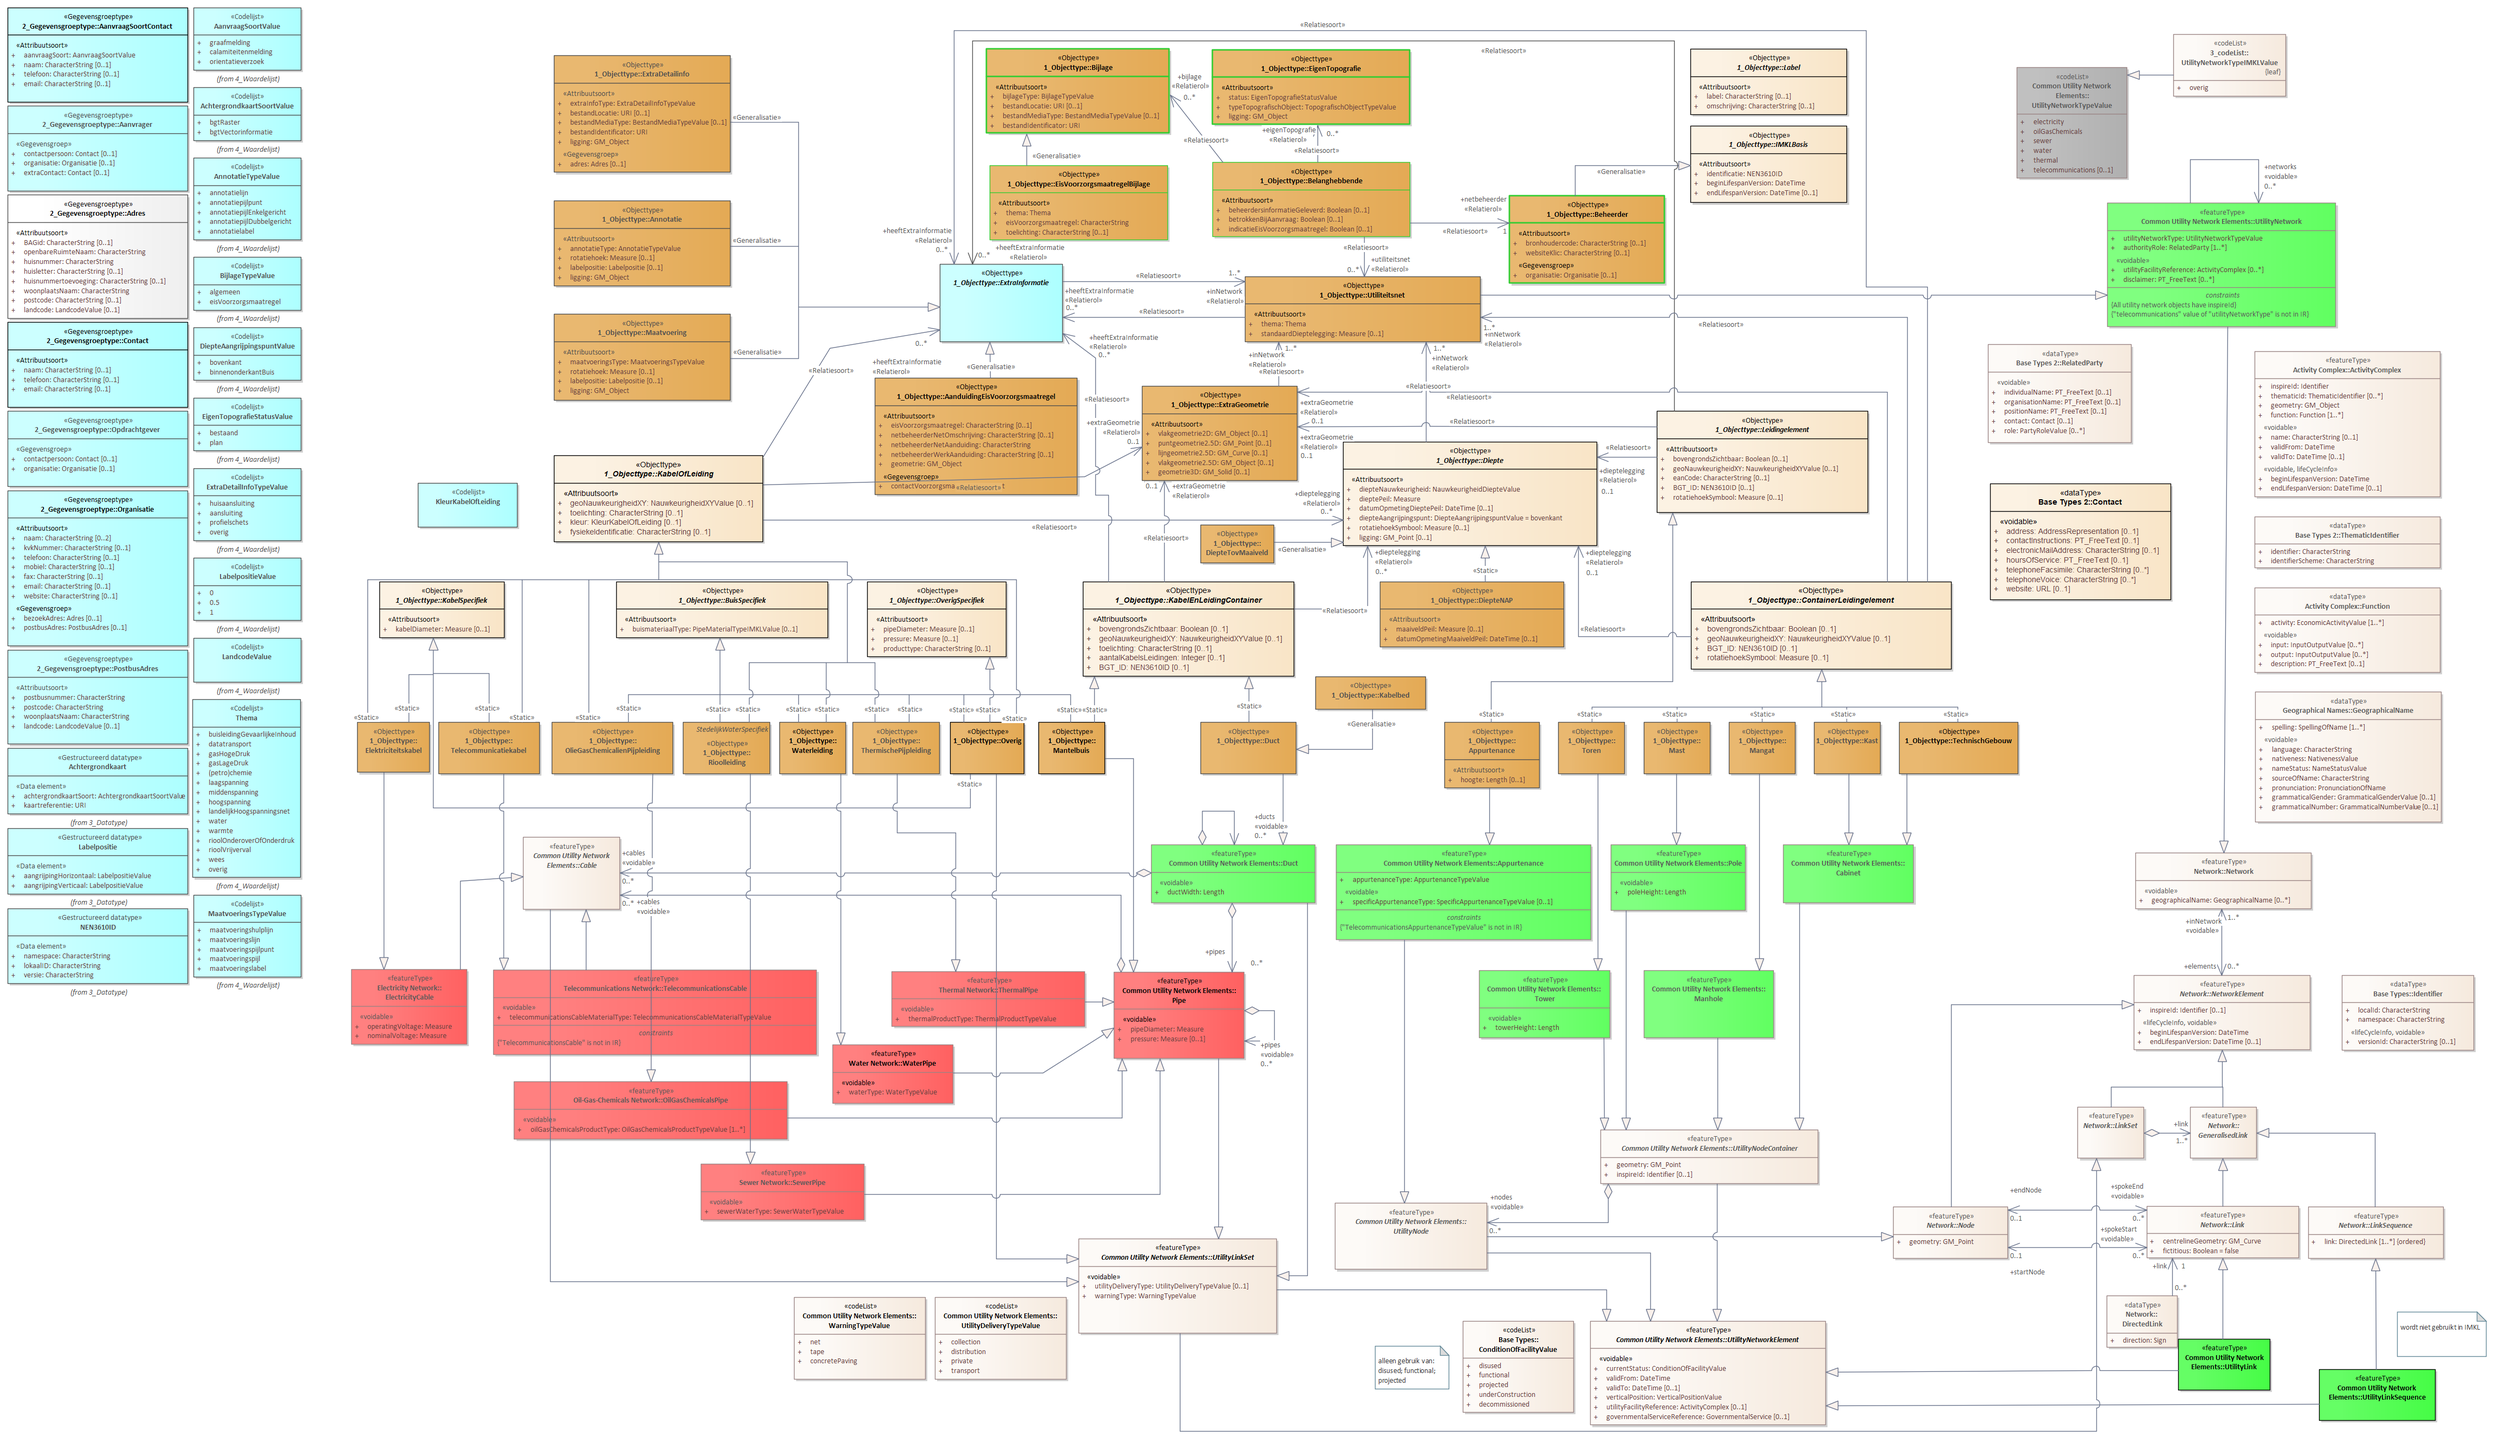
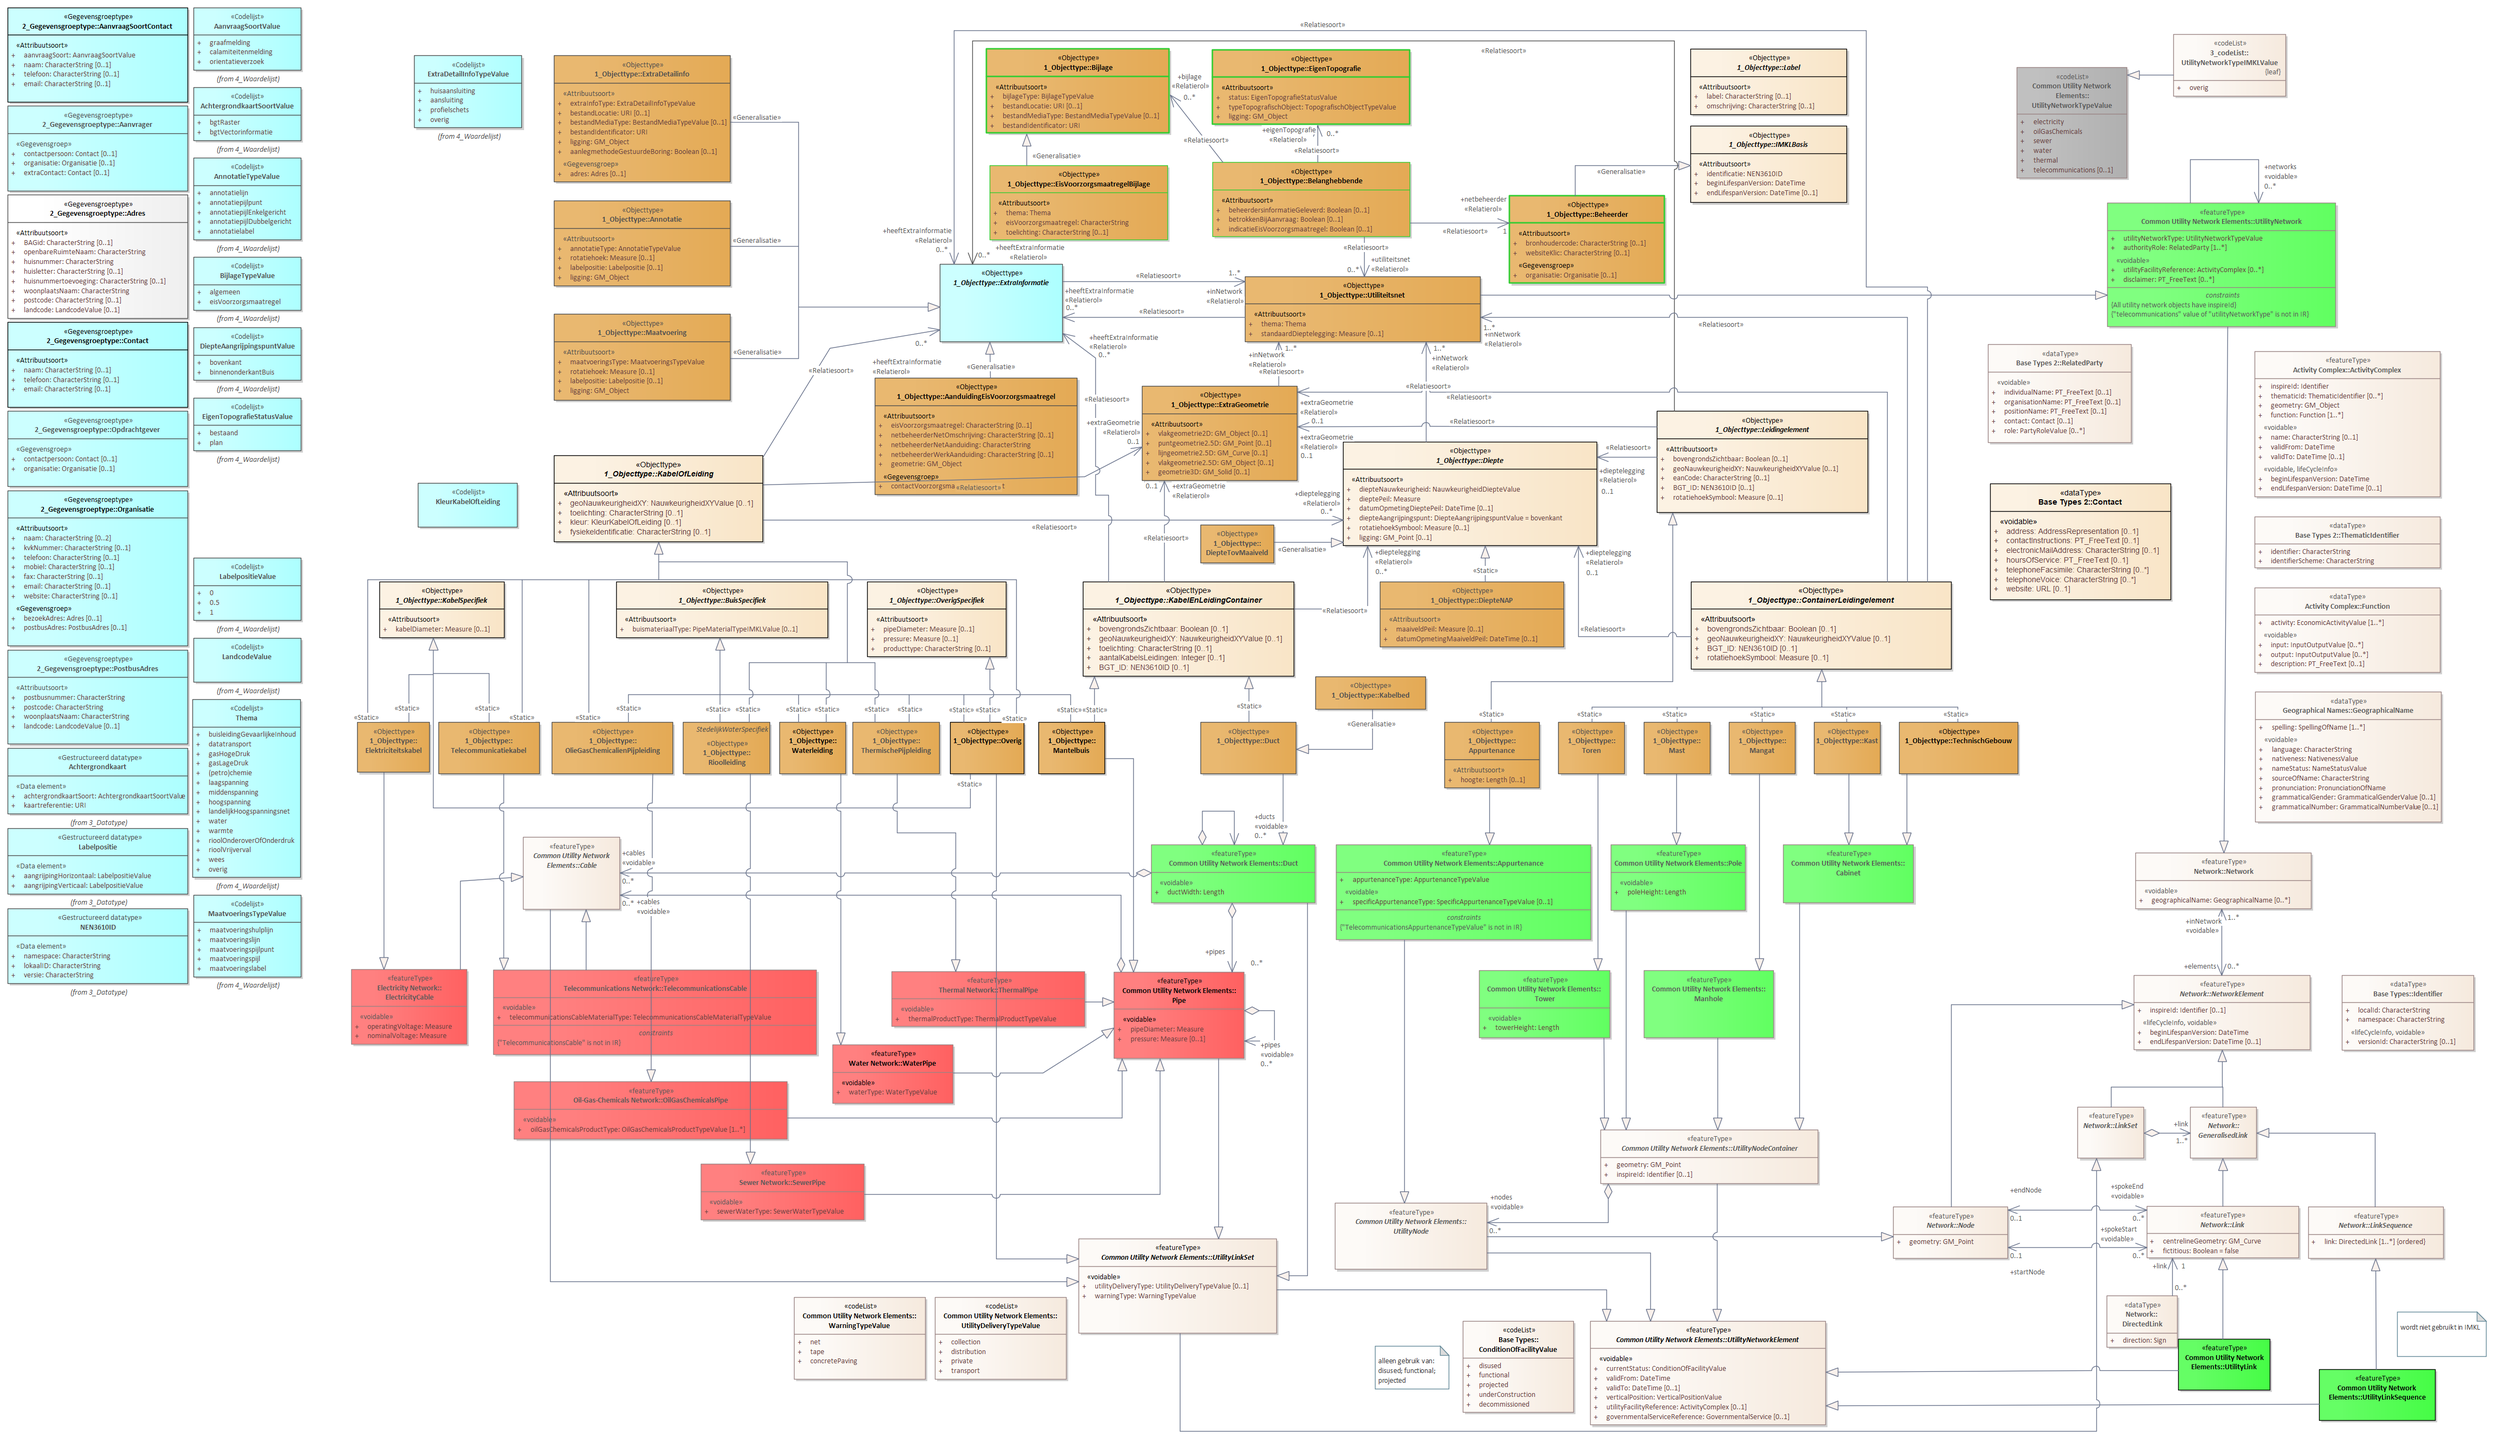
MIMLM-InformatiemodelKabelsenLeidingenMIM-conversie-1.2.x-0-20240531-20240620-145740

Changed region(s): [[0.1561, 0.031, 0.2186, 0.0931], [0.0625, 0.3103, 0.1249, 0.3723], [0.2186, 0.0931, 0.2811, 0.1241]]

diff --git a/data/imkl-mim-cat.respec.html b/data/imkl-mim-cat.respec.html
@@ -1,7 +1,17 @@
 
 <!DOCTYPE HTML><section id="cat" class="normative">
    <h2>Gegevensdefinitie</h2>
-   <!--MIMLM-InformatiemodelKabelsenLeidingenMIM-conversie-1.2.x-0-20240531-20240612-134204 imvertor Nightly-build.14-->
+   <!--MIMLM-InformatiemodelKabelsenLeidingenMIM-conversie-1.2.x-0-20240531-20240620-145740 imvertor Nightly-build.14-->
+   <section id="EAID_3216E3F5_51CD_42d4_BDBB_F113D31E31A7">
+      <h3>   01 IMKL-MIM-compleet - overzicht</h3>
+      <div class="imageinfo overview">
+         <figure><img src="data/Images/EAID_3216E3F5_51CD_42d4_BDBB_F113D31E31A7.png" usemap="#imagemap-EAID_3216E3F5_51CD_42d4_BDBB_F113D31E31A7" alt="Diagram: 01 IMKL-MIM-compleet - overzicht"><figcaption>01 IMKL-MIM-compleet</figcaption>
+         </figure><map name="imagemap-EAID_3216E3F5_51CD_42d4_BDBB_F113D31E31A7"><area shape="rect" alt="" coords="771,891,955,973" href="#global_class_IMKLMIM_KleurKabelOfLeiding"><area shape="rect" alt="Achtergrondkaart" coords="14,1380,347,1502" href="#global_class_IMKLMIM_Achtergrondkaart"><area shape="rect" alt="PostbusAdres" coords="14,1199,347,1373" href="#global_class_IMKLMIM_PostbusAdres"><area shape="rect" alt="Organisatie" coords="14,905,347,1192" href="#global_class_IMKLMIM_Organisatie"><area shape="rect" alt="Opdrachtgever" coords="14,758,347,898" href="#global_class_IMKLMIM_Opdrachtgever"><area shape="rect" alt="Contact" coords="14,594,347,752" href="#global_class_IMKLMIM_Contact"><area shape="rect" alt="Aanvrager" coords="14,195,347,353" href="#global_class_IMKLMIM_Aanvrager"><area shape="rect" alt="AanvraagSoortContact" coords="14,14,347,189" href="#global_class_IMKLMIM_AanvraagSoortContact"><area shape="rect" alt="Adres" coords="14,359,347,588" href="#global_class_IMKLMIM_Adres"><area shape="rect" alt="" coords="355,1290,555,1619" href="#global_class_IMKLMIM_Thema"><area shape="rect" alt="" coords="357,1651,556,1803" href="#global_class_IMKLMIM_MaatvoeringsTypeValue"><area shape="rect" alt="" coords="357,1177,556,1259" href="#global_class_IMKLMIM_LandcodeValue"><area shape="rect" alt="" coords="357,1029,556,1145" href="#global_class_IMKLMIM_LabelpositieValue"><area shape="rect" alt="" coords="764,102,963,236" href="#global_class_IMKLMIM_ExtraDetailInfoTypeValue"><area shape="rect" alt="" coords="357,734,556,832" href="#global_class_IMKLMIM_EigenTopografieStatusValue"><area shape="rect" alt="" coords="357,474,556,573" href="#global_class_IMKLMIM_BijlageTypeValue"><area shape="rect" alt="" coords="357,291,556,443" href="#global_class_IMKLMIM_AnnotatieTypeValue"><area shape="rect" alt="" coords="357,161,556,260" href="#global_class_IMKLMIM_AchtergrondkaartSoortValue"><area shape="rect" alt="" coords="357,14,556,130" href="#global_class_IMKLMIM_AanvraagSoortValue"><area shape="rect" alt="" coords="357,604,556,702" href="#global_class_IMKLMIM_DiepteAangrijpingspuntValue"><area shape="rect" alt="NEN3610ID" coords="14,1676,347,1815" href="#global_class_IMKLMIM_NEN3610ID"><area shape="rect" alt="Labelpositie" coords="14,1528,347,1650" href="#global_class_IMKLMIM_Labelpositie"><area shape="rect" alt="Beheerder" coords="2785,361,3072,523" href="#global_class_IMKLMIM_Beheerder"><area shape="rect" alt="Overig" coords="1753,1332,1890,1428" href="#global_class_IMKLMIM_Overig"><area shape="rect" alt="Belanghebbende" coords="2237,299,2602,437" href="#global_class_IMKLMIM_Belanghebbende"><area shape="rect" alt="TechnischGebouw" coords="3504,1332,3724,1428" href="#global_class_IMKLMIM_TechnischGebouw"><area shape="rect" alt="BuisSpecifiek" coords="1137,1073,1528,1177" href="#global_class_IMKLMIM_BuisSpecifiek"><area shape="rect" alt="EisVoorzorgsmaatregelBijlage" coords="1826,305,2155,443" href="#global_class_IMKLMIM_EisVoorzorgsmaatregelBijlage"><area shape="rect" alt="Bijlage" coords="1820,90,2158,246" href="#global_class_IMKLMIM_Bijlage"><area shape="rect" alt="ExtraInformatie" coords="1734,487,1961,631" href="#global_class_IMKLMIM_ExtraInformatie"><area shape="rect" alt="Leidingelement" coords="3057,758,3447,946" href="#global_class_IMKLMIM_Leidingelement"><area shape="rect" alt="KabelEnLeidingContainer" coords="1998,1073,2388,1248" href="#global_class_IMKLMIM_KabelEnLeidingContainer"><area shape="rect" alt="ExtraGeometrie" coords="2107,712,2394,887" href="#global_class_IMKLMIM_ExtraGeometrie"><area shape="rect" alt="Maatvoering" coords="1022,579,1348,739" href="#global_class_IMKLMIM_Maatvoering"><area shape="rect" alt="AanduidingEisVoorzorgsmaatregel" coords="1614,697,1988,913" href="#global_class_IMKLMIM_AanduidingEisVoorzorgsmaatregel"><area shape="rect" alt="Mantelbuis" coords="1916,1332,2039,1428" href="#global_class_IMKLMIM_Mantelbuis"><area shape="rect" alt="Kabelbed" coords="2427,1248,2631,1309" href="#global_class_IMKLMIM_Kabelbed"><area shape="rect" alt="KabelOfLeiding" coords="1022,840,1408,1000" href="#global_class_IMKLMIM_KabelOfLeiding"><area shape="rect" alt="Diepte" coords="2478,815,2947,1007" href="#global_class_IMKLMIM_Diepte"><area shape="rect" alt="Telecommunicatiekabel" coords="809,1332,996,1428" href="#global_class_IMKLMIM_Telecommunicatiekabel"><area shape="rect" alt="Elektriciteitskabel" coords="659,1332,793,1425" href="#global_class_IMKLMIM_Elektriciteitskabel"><area shape="rect" alt="KabelSpecifiek" coords="700,1073,931,1177" href="#global_class_IMKLMIM_KabelSpecifiek"><area shape="rect" alt="Label" coords="3119,90,3408,212" href="#global_class_IMKLMIM_Label"><area shape="rect" alt="IMKLBasis" coords="3119,232,3408,374" href="#global_class_IMKLMIM_IMKLBasis"><area shape="rect" alt="DiepteNAP" coords="2546,1073,2886,1194" href="#global_class_IMKLMIM_DiepteNAP"><area shape="rect" alt="DiepteTovMaaiveld" coords="2215,968,2351,1039" href="#global_class_IMKLMIM_DiepteTovMaaiveld"><area shape="rect" alt="ContainerLeidingelement" coords="3120,1073,3601,1235" href="#global_class_IMKLMIM_ContainerLeidingelement"><area shape="rect" alt="Kast" coords="3347,1332,3470,1428" href="#global_class_IMKLMIM_Kast"><area shape="rect" alt="Mangat" coords="3190,1332,3313,1428" href="#global_class_IMKLMIM_Mangat"><area shape="rect" alt="Mast" coords="3033,1332,3156,1428" href="#global_class_IMKLMIM_Mast"><area shape="rect" alt="Toren" coords="2875,1332,2998,1428" href="#global_class_IMKLMIM_Toren"><area shape="rect" alt="Appurtenance" coords="2665,1332,2841,1454" href="#global_class_IMKLMIM_Appurtenance"><area shape="rect" alt="Duct" coords="2215,1332,2392,1428" href="#global_class_IMKLMIM_Duct"><area shape="rect" alt="ThermischePijpleiding" coords="1573,1332,1734,1428" href="#global_class_IMKLMIM_ThermischePijpleiding"><area shape="rect" alt="Waterleiding" coords="1438,1332,1561,1428" href="#global_class_IMKLMIM_Waterleiding"><area shape="rect" alt="Rioolleiding" coords="1260,1332,1421,1428" href="#global_class_IMKLMIM_Rioolleiding"><area shape="rect" alt="OlieGasChemicalienPijpleiding" coords="1018,1332,1242,1428" href="#global_class_IMKLMIM_OlieGasChemicalienPijpleiding"><area shape="rect" alt="Utiliteitsnet" coords="2297,510,2732,631" href="#global_class_IMKLMIM_Utiliteitsnet"><area shape="rect" alt="Annotatie" coords="1022,370,1348,528" href="#global_class_IMKLMIM_Annotatie"><area shape="rect" alt="ExtraDetailinfo" coords="1022,102,1348,336" href="#global_class_IMKLMIM_ExtraDetailinfo"><area shape="rect" alt="EigenTopografie" coords="2237,92,2602,230" href="#global_class_IMKLMIM_EigenTopografie"><area shape="rect" alt="OverigSpecifiek" coords="1600,1073,1857,1212" href="#global_class_IMKLMIM_OverigSpecifiek"></map><p>
+            
+            <p></p>
+            </p>
+      </div>
+   </section>
    <section>
       <h3>Objecttypen   </h3>
       
@@ -3986,6 +3996,19 @@
                      GM_Object
                      </td>
                   <td>1</td>
+               </tr>
+               <tr>
+                  <td>
+                     <a class="link" href="#detail_attribute_IMKLMIM_ExtraDetailinfo_aanlegmethodeGestuurdeBoring">aanlegmethodeGestuurdeBoring</a>
+                     </td>
+                  <td>
+                     
+                     <p>Indicatie of de  legging is uitgevoerd middels een gestuurde boring.</p>
+                     </td>
+                  <td>
+                     <a class="external-link" href="https://docs.geostandaarden.nl/mim/vv-st-mim-20200225/#primitive-datatypes">Boolean</a>
+                     </td>
+                  <td>0 .. 1</td>
                </tr>
                <tr>
                   <td>
@@ -17315,6 +17338,63 @@
                   </tbody>
                </table>
                </section>
+            
+            <section id="detail_attribute_IMKLMIM_ExtraDetailinfo_aanlegmethodeGestuurdeBoring">
+               <h6>Attribuutsoort details  <a href="#global_class_IMKLMIM_ExtraDetailinfo">ExtraDetailinfo</a> aanlegmethodeGestuurdeBoring</h6>
+               
+               <table style="width: 100%;">
+                  <colgroup style="width: 30%;"></colgroup>
+                  <colgroup style="width: 70%;"></colgroup>
+                  <tbody>
+                     <tr>
+                        <th>Naam</th>
+                        <td>aanlegmethodeGestuurdeBoring</td>
+                     </tr>
+                     <tr>
+                        <th>Definitie</th>
+                        <td>
+                           
+                           
+                           <p>Indicatie of de  legging is uitgevoerd middels een gestuurde boring.</p>
+                           
+                           </td>
+                     </tr>
+                     <tr>
+                        <th>Formaat</th>
+                        <td>
+                           <a class="external-link" href="https://docs.geostandaarden.nl/mim/vv-st-mim-20200225/#primitive-datatypes">Boolean</a>
+                           </td>
+                     </tr>
+                     <tr>
+                        <th>Patroon</th>
+                        <td>
+                           De verzameling van waarden die gegevens van deze attribuutsoort kunnen hebben, oftewel
+                           het waardenbereik, uitgedrukt in een specifieke structuur.
+                           </td>
+                     </tr>
+                     <tr>
+                        <th>Indicatie kardinaliteit</th>
+                        <td>0 .. 1</td>
+                     </tr>
+                     <tr>
+                        <th>Toelichting</th>
+                        <td>
+                           
+                           
+                           <p>Deze informatie is verplicht indien aanwezig. Indien het een gestuurde boring betreft
+                              wordt de waarde 'ja' ingevuld. Indien het geen gestuurde boring betreft wordt 'nee'
+                              ingevuld of geen waarde opgenomen. Indien het niet bekend is wordt er geen waarde
+                              opgenomen.</p>
+                           
+                           </td>
+                     </tr>
+                     <tr>
+                        <th>Indicatie identificerend</th>
+                        <td>Nee</td>
+                     </tr>
+                  </tbody>
+               </table>
+               </section>
             </section>
          
          <section id="detail_class_IMKLMIM_DiepteNAP">
@@ -27110,8 +27190,8 @@
       </section>
 </section>
 <section id="lis" class="normative">
-   <h2>Inhoud van waardenlijsten</h2>
-   <!--MIMLM-InformatiemodelKabelsenLeidingenMIM-conversie-1.2.x-0-20240531-20240612-134204 imvertor Nightly-build.14-->
+   <h2>Inhoud van waardelijsten</h2>
+   <!--MIMLM-InformatiemodelKabelsenLeidingenMIM-conversie-1.2.x-0-20240531-20240620-145740 imvertor Nightly-build.14-->
    <section id="detail_class_IMKLMIM_RioolLeidingTypeValue">
       <h3>Codelijst details  RioolLeidingTypeValue</h3>
       
